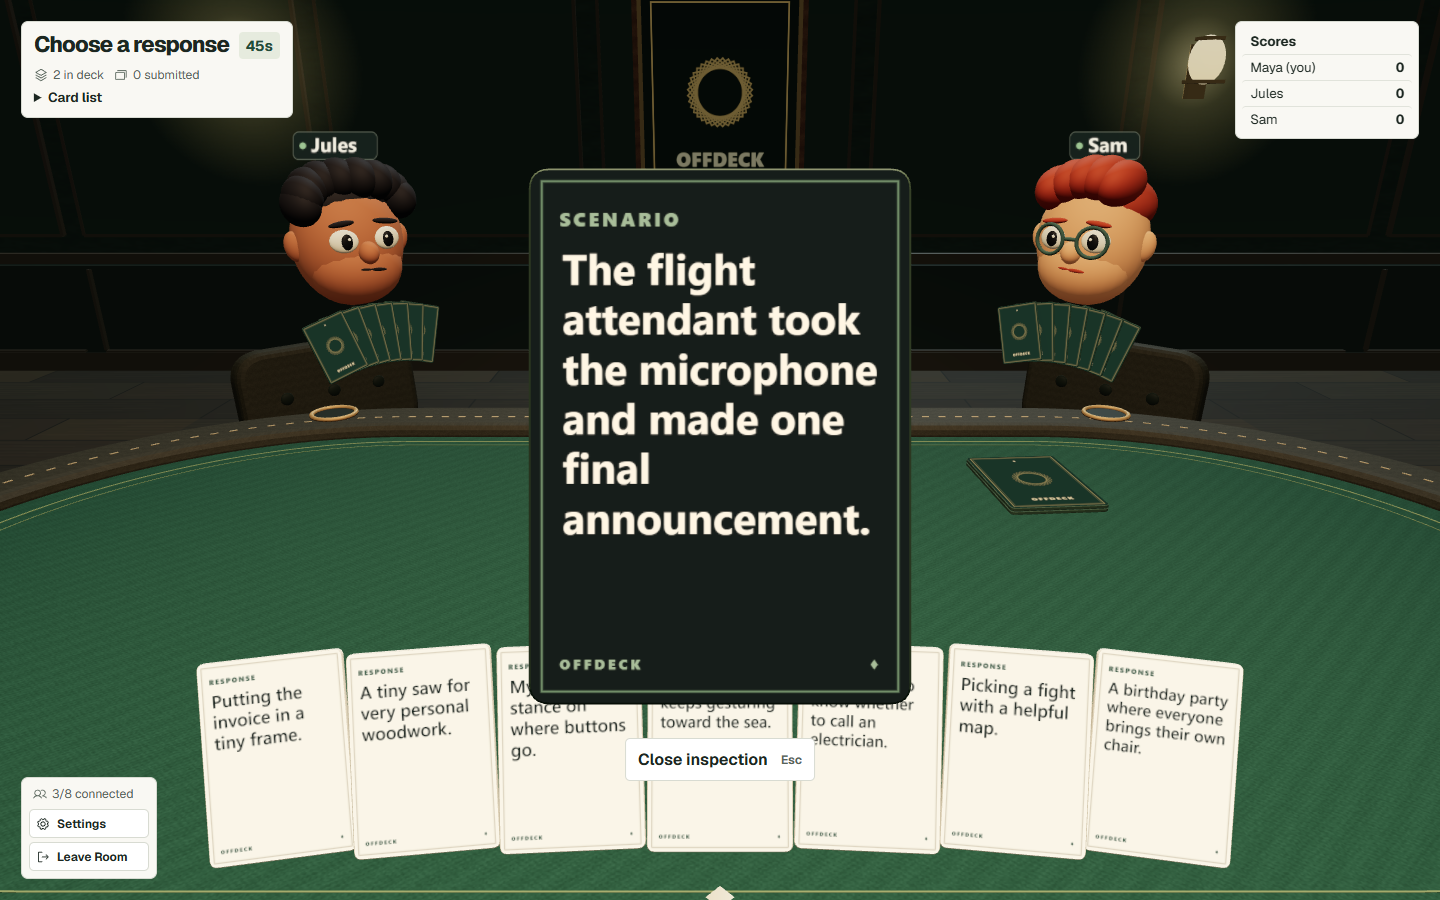
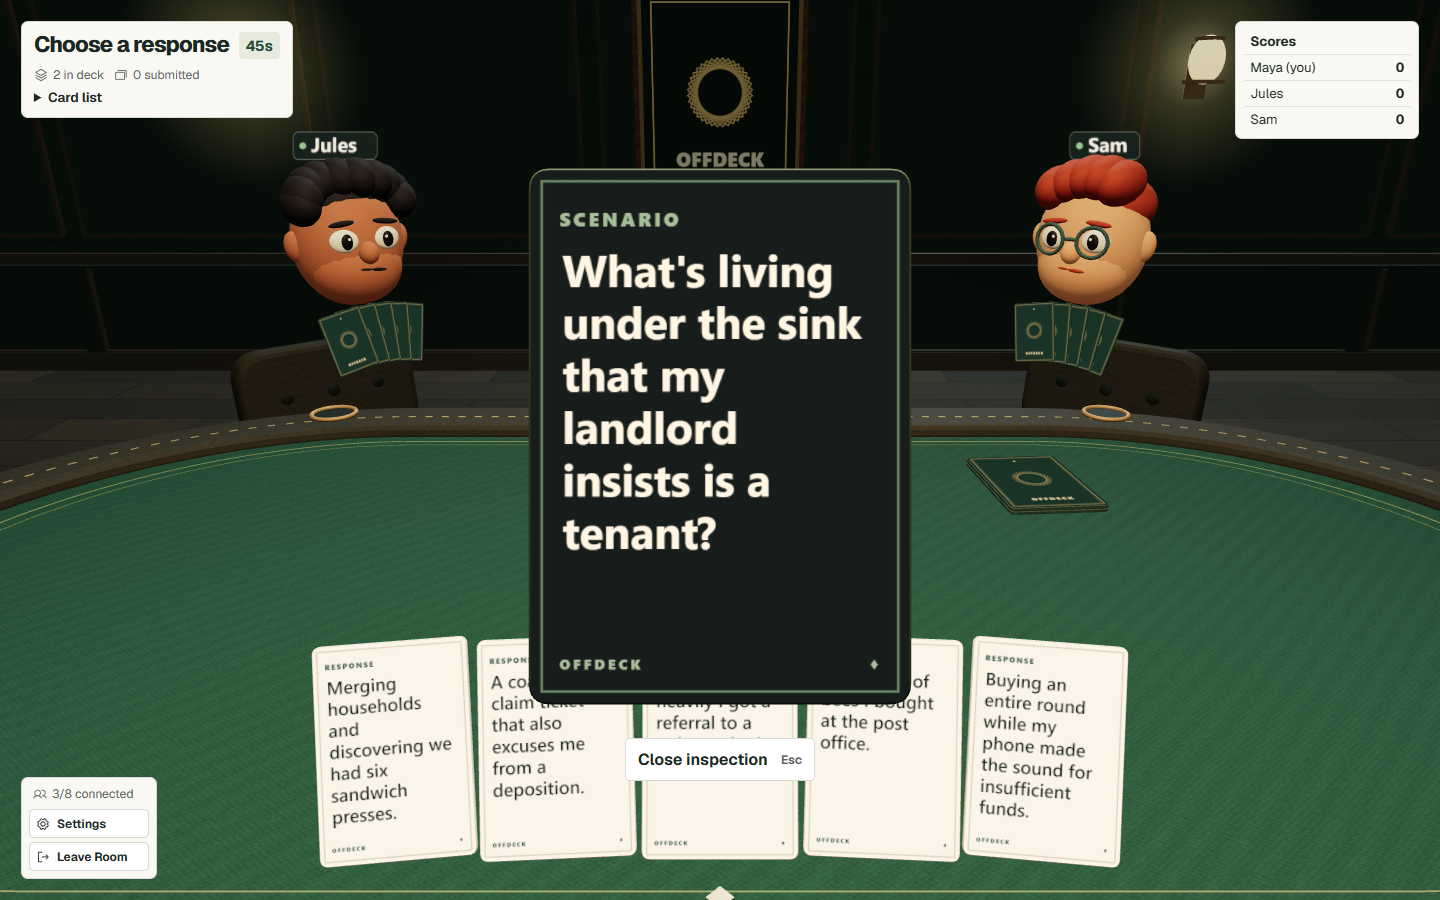
Release OFFDECK v0.3.0 Unfiltered Update

diff --git a/client/main.js b/client/main.js
@@ -261,7 +261,7 @@ function menu() {
   return `<section class="menu panel">
     <div class="menu-mark" aria-hidden="true">♦</div>
     <h1>OFFDECK<span>.</span></h1>
-    <p>A party card game for 3–8 players.</p>
+    <p>An 18+ party card game for 3–8 players.</p>
     <nav aria-label="Main menu">
       ${button('Play', 'play', { primary: true, glyph: 'play', className: 'menu-play' })}
       <div class="menu-rooms">
@@ -322,8 +322,8 @@ function overlay() {
   if (panel === 'help') return dialog('How to Play', `<ol class="instructions">
     <li>Open a room and invite 3–8 players. The host starts the match.</li>
     <li>Click the scenario card for a closer look. Hover over one of your five responses to read it, then click to lock it in.</li>
-    <li>After the cards flip, click another player’s anonymous response to vote. Each vote received earns one point.</li>
-    <li>Results reveal the authors. The next scenario starts automatically. The highest score wins when the deck is empty, and ties stand.</li>
+    <li>After the cards flip, click another player’s anonymous response to vote. Each received vote earns one point. The table reveals authors and vote totals in the results.</li>
+    <li>A replacement brings your hand back to five. Rounds advance automatically through 20 scenarios in a standard match. The highest score wins when the deck is empty, and ties stand.</li>
   </ol><p class="help-note">Open Card list for keyboard controls. Move the mouse to look around the table.</p>`)
   if (panel === 'play') return dialog('Play', `<div class="actions">${button('Create Room', 'create', { primary: true })}${button('Join Room', 'join')}</div>`)
   if (panel === 'create') return dialog('Create Room', `<form data-form="create">

diff --git a/test/card-layout.test.js b/test/card-layout.test.js
@@ -1,7 +1,7 @@
 import test from 'node:test'
 import assert from 'node:assert/strict'
 import { SEATS } from '../client/scene/environment.js'
-import { handPose,responsePose,scenarioPose,wrapCardText } from '../client/scene/card-layout.js'
+import { handPose,responsePose,scenarioPose,wrapCardText,fitCardText } from '../client/scene/card-layout.js'
 import { projector } from './projection.js'
 import { HAND_SIZE } from '../shared/protocol.js'
 
@@ -45,4 +45,16 @@ test('long card text wraps within the paper width, including single long tokens'
   const lines = wrapCardText(ctx,text,150)
   assert.ok(lines.every(line => ctx.measureText(line).width <= 150))
   assert.equal(lines.join('').replaceAll(' ',''),text.replaceAll(' ',''))
+})
+
+test('a card keeps its opening article with the first word when there is room to reflow', () => {
+  const ctx = {
+    measureText(text) {
+      const fontSize = Number(/(\d+)px/.exec(this.font)[1])
+      return { width: text.length * fontSize * .53 }
+    }
+  }
+  const { lines, lineHeight } = fitCardText(ctx, 'A housewarming card signed by the last three evicted tenants.', 426, 480, false)
+  assert.equal(lines[0], 'A housewarming')
+  assert.ok(lines.length * lineHeight <= 480)
 })

diff --git a/test/browser/navigation.spec.js b/test/browser/navigation.spec.js
@@ -7,6 +7,11 @@ test('keyboard navigation, copied invitations and active leave confirmation work
   const guests = []
   try {
     await host.context.grantPermissions(['clipboard-read','clipboard-write'])
+    await a.getByRole('button',{name:'How to Play'}).click()
+    const help = a.getByRole('dialog',{name:'How to Play'})
+    await expect(help).toContainText('A replacement brings your hand back to five.')
+    await expect(help).toContainText('20 scenarios in a standard match')
+    await help.getByRole('button',{name:'Close'}).click()
     await a.getByRole('button',{name:'Play',exact:true}).focus()
     await a.keyboard.press('Enter')
     await a.getByRole('dialog',{name:'Play'}).getByRole('button',{name:'Create Room'}).focus()

diff --git a/client/scene/card-layout.js b/client/scene/card-layout.js
@@ -134,6 +134,7 @@ export function fitCardText(ctx, text, width, height, scenario) {
     ctx.font = weight + ' ' + size + 'px system-ui'
     if (size > minimum && words.some(word => ctx.measureText(word).width > width)) continue
     const lines = wrapCardText(ctx, text, width)
+    if (size > minimum && lines.length > 1 && /^[“"]?(?:a|an|the)$/i.test(lines[0])) continue
     balanceLastLine(ctx, lines, width)
     const lineHeight = size * 1.18
     if (lines.length * lineHeight <= height || size === minimum) return { lines,lineHeight }

diff --git a/README.md b/README.md
@@ -1,24 +1,20 @@
 # OFFDECK
 
-OFFDECK is a first-person 3D party card game for **3–8 players** in a desktop browser. Invite friends to a private poker table, match a response card to the scenario, and vote for the funniest combination.
+OFFDECK is a first-person 3D party card game for **3–8 adults** in a desktop browser. Invite friends to a private poker table, play an anonymous response, and vote for the funniest combination.
 
-- Create a private room and share its invitation link. Each player joins with a nickname.
-- Sit at an eight-seat 3D poker table with private floating hands, avatar reactions and a physical five-card hand.
-- Click the scenario card for a close-up. Submit and vote by clicking physical cards. A private marker confirms your vote.
-- The edge-aligned HUD leaves the table clear. Voting rows adapt to the number of submitted cards.
-- Earn one point for each vote received. Scenarios progress automatically until the deck is exhausted.
-- Refresh or reconnect to the same seat. The room migrates the host when needed.
-- Play with 100 original scenarios and 400 original responses. Adjust volume, camera sensitivity, graphics quality and motion locally.
+**18+ content warning.** OFFDECK contains explicit language, sexual humor, dark comedy, and mature themes. First-time visitors confirm they are 18 or older. The browser remembers this self-declaration locally.
+
+The Unfiltered Update brings **1,000 original English cards** to the default game, with **250 scenarios** and **750 responses**. Cards span hookups, dating disasters, relationship expectations, dark humor, social taboos and surreal comedy. The server draws **20 unique scenarios** for each standard match. It balances categories and favors cards the room hasn't seen recently. Response cards are shuffled, dealt privately, and recycled only if the draw pile runs out. Recent card history stays with the room across rematches.
 
 ## Screenshots
 
 Captured from the production build with three connected browser clients using a three-scenario test deck.
 
 ![OFFDECK main menu and poker room](docs/screenshots/main-menu.png)
-![First-person gameplay with a seven-card hand](docs/screenshots/gameplay.png)
+![First-person gameplay with a five-card hand](docs/screenshots/gameplay.png)
 ![Anonymous responses in the voting phase](docs/screenshots/voting.png)
 
-[Multiplayer lobby](docs/screenshots/lobby.png) · [Card inspection](docs/screenshots/card-inspection.png) · [Round results](docs/screenshots/round-results.png) · [Final leaderboard](docs/screenshots/final-results.png)
+[18+ confirmation](docs/screenshots/age-confirmation.png) · [Multiplayer lobby](docs/screenshots/lobby.png) · [Card inspection](docs/screenshots/card-inspection.png) · [Round results](docs/screenshots/round-results.png) · [Final leaderboard](docs/screenshots/final-results.png)
 
 ## Quick start
 
@@ -37,12 +33,12 @@ For friends on your LAN, set `HOST=0.0.0.0` in a local `.env` and have everyone 
 
 ## How to play
 
-1. Choose a nickname. The browser remembers it for 365 days. Change it in **Settings**.
-2. Create a room or open an invitation. The host can start when at least three players are connected.
-3. Click the scenario for a closer look. Press **Esc**, click the scene again, or use **Close inspection** to return to the table. Hover over one of your five responses to read it, then click to submit. The default response timer is 45 seconds.
-4. After the reveal, click another player’s response to vote. Each player who submitted a response can cast one vote. **Vote cast** appears on the chosen card in your view. The default voting timer is 30 seconds.
-5. Read the authors and vote totals in the results. Each vote received is worth one point. The highest-voted response wins the round, with ties shared.
-6. Play continues automatically. After the last scenario, the final leaderboard highlights the highest-scoring player or tied players. The host can play again in the same room.
+1. Confirm you are 18 or older and choose a nickname. The browser remembers your nickname for 365 days. Change it in **Settings**.
+2. Create a room and share its invitation link, or open an invitation. The host can start when at least three players are connected.
+3. Click the scenario card for a close-up. Press **Esc** or choose **Close inspection** to return to the table. Hover over a response to read it and click to lock in one of your five cards.
+4. Responses are revealed anonymously when everyone submits or the timer expires. If you submitted, cast one private vote for another player's card. **Vote cast** confirms your choice privately. Vote totals and response authors are revealed in the results.
+5. Each vote received is worth one point. Ties are shared. Played responses are discarded, and a replacement brings each hand back to five for the next scenario.
+6. Rounds advance automatically until the scenario deck runs out. The final leaderboard shows the overall winner or tied winners. The host can start a fresh match in the same room.
 
 Move the mouse to look around from your seat. Open **Card list** in the upper-left HUD for keyboard submission, voting and scenario inspection. Reduced motion holds the camera steady and settles cards directly into place. Graphics quality adjusts resolution and shadows. A newcomer joining an active match spectates and can play in the next one.
 
@@ -53,12 +49,12 @@ Move the mouse to look around from your seat. Open **Card list** in the upper-le
 | `client/` | JavaScript UI, Three.js scene, storage, card interactions and Web Audio cues |
 | `server/` | Express, Socket.IO, room sessions, private state, deadlines and authoritative match rules |
 | `shared/` | Protocol constants and nickname validation |
-| `decks/` | Editable JSON arrays of English scenario and response text |
+| `decks/` | Editable JSON arrays of English cards with stable IDs, categories and text |
 | `public/` | Browser assets and third-party license notices |
 | `test/` | Node rules and transport tests plus Playwright multiplayer and visual tests |
-| `docs/` | [Development milestones](docs/MILESTONES.md) and screenshots |
+| `docs/` | [v0.3 verification record](docs/V0.3.md) and screenshots |
 
-The app uses JavaScript, Vite, Three.js and Web Audio on the client, with Node.js, Express and Socket.IO on the server. The server maintains hands, deadlines, submissions, votes and scores. Each client receives a private, viewer-specific snapshot. Card text is loaded from the two JSON decks at server startup. Use unique, non-empty strings of up to 170 characters when editing either deck.
+The app uses JavaScript, Vite, Three.js and Web Audio on the client, with Node.js, Express and Socket.IO on the server. The server maintains hands, deadlines, submissions, votes and scores. Each client receives a private, viewer-specific snapshot. Card text is loaded from the two JSON decks at server startup. Keep each record's ID stable when editing. Card text should be unique, non-empty and at most 120 characters.
 
 ## Testing
 
@@ -68,7 +64,7 @@ npx playwright install chromium
 npm run test:browser
 ```
 
-The Node suite exercises the full 100-scenario deck at eight seats. Playwright completes a three-scenario match through physical cards and runs additional rounds with five and eight independent browser contexts. It also covers all three desktop viewports, reconnects, host migration, settings, audio and both rematch paths. See the [v0.2 verification record](docs/V0.2.md).
+The Node suite validates all 1,000 cards and simulates repeated 20-scenario matches at eight seats, including a separate draw-pile exhaustion test. Playwright completes a physical-card match and exercises two complete rematches, five- and eight-client sessions, all three desktop viewports, age confirmation, reconnects and host migration. See the [v0.3 verification record](docs/V0.3.md).
 
 To run the browser suite against the production bundle, run `npm run build` and then use the command for your shell.
 

diff --git a/docs/V0.3.md b/docs/V0.3.md
@@ -22,3 +22,6 @@
 - **6. Readability** verified short, medium and long library responses and the longest scenario with three production clients at 1280 x 720, 1440 x 900 and 1920 x 1080. Inspected hand hover, close-up scenario inspection, voting and results. The browser test measured canvas text bounds and cast votes using the physical cards. All 23 Node tests and both focused Playwright tests passed.
 - **7. Age confirmation** inspected the warning in Chrome and checked the decline, invite, acceptance and reload flows. No game WebSocket opened before acceptance. The server rejects sockets without the self-declaration. Twenty-four Node tests and three dedicated browser tests passed.
 - **8. Regression** passed all 24 Node tests and all 20 production Chromium tests. Three independent browsers completed one match and two rematches with nine distinct scenarios and no repeated response across matches. Five- and eight-client rounds stayed synchronized. Selection disconnect, reconnect during voting, host migration, private hands, ties and automatic exhaustion passed. The 1440 x 900 Medium benchmark on the GTX 1660 SUPER measured 60 FPS, 16.8 ms p95, 105 draw calls per frame and 22.12 MiB of tracked 2D texture storage.
+- **9. Release** verified a clean dependency install, package version 0.3.0, the production build and CLI startup, and 20 production Chromium cases. After fixing an opening-article wrap, all 25 Node tests and six focused production browser cases passed. Recaptured and inspected the eight README screenshots from the running menu, age prompt and three-client match. Verified all README documentation paths.
+
+The production dependency audit returned zero advisories. The full audit flagged an upstream advisory in Vite's development-only pattern matcher awaiting a patched version. [GitHub advisory](https://github.com/advisories/GHSA-fc5q-39xc-vjpf)

diff --git a/CHANGELOG.md b/CHANGELOG.md
@@ -1,5 +1,14 @@
 # Changelog
 
+## 0.3.0 — Unfiltered Update
+
+- Replaced the default deck with 1,000 original English cards for adults, including 250 scenarios and 750 responses across six humor categories.
+- Reduced hands to five responses. One replacement is drawn after each played card, and rounds advance automatically.
+- Standard matches use 20 unique scenarios. Room history favors fresh cards between matches, balances scenario categories and delays response recycling until the draw pile runs out.
+- Improved wrapping and legibility of longer jokes on the physical cards in hand, during voting and in results.
+- Added a browser-local 18+ self-confirmation before starting or joining a game.
+- Verified complete three-client matches and rematches, five- and eight-client rounds, reconnects, host migration and all three desktop sizes. See the [verification record](docs/V0.3.md).
+
 ## 0.2.0
 
 - Reframed all eight seats with constrained camera movement and a reversible 3D scenario close-up.
